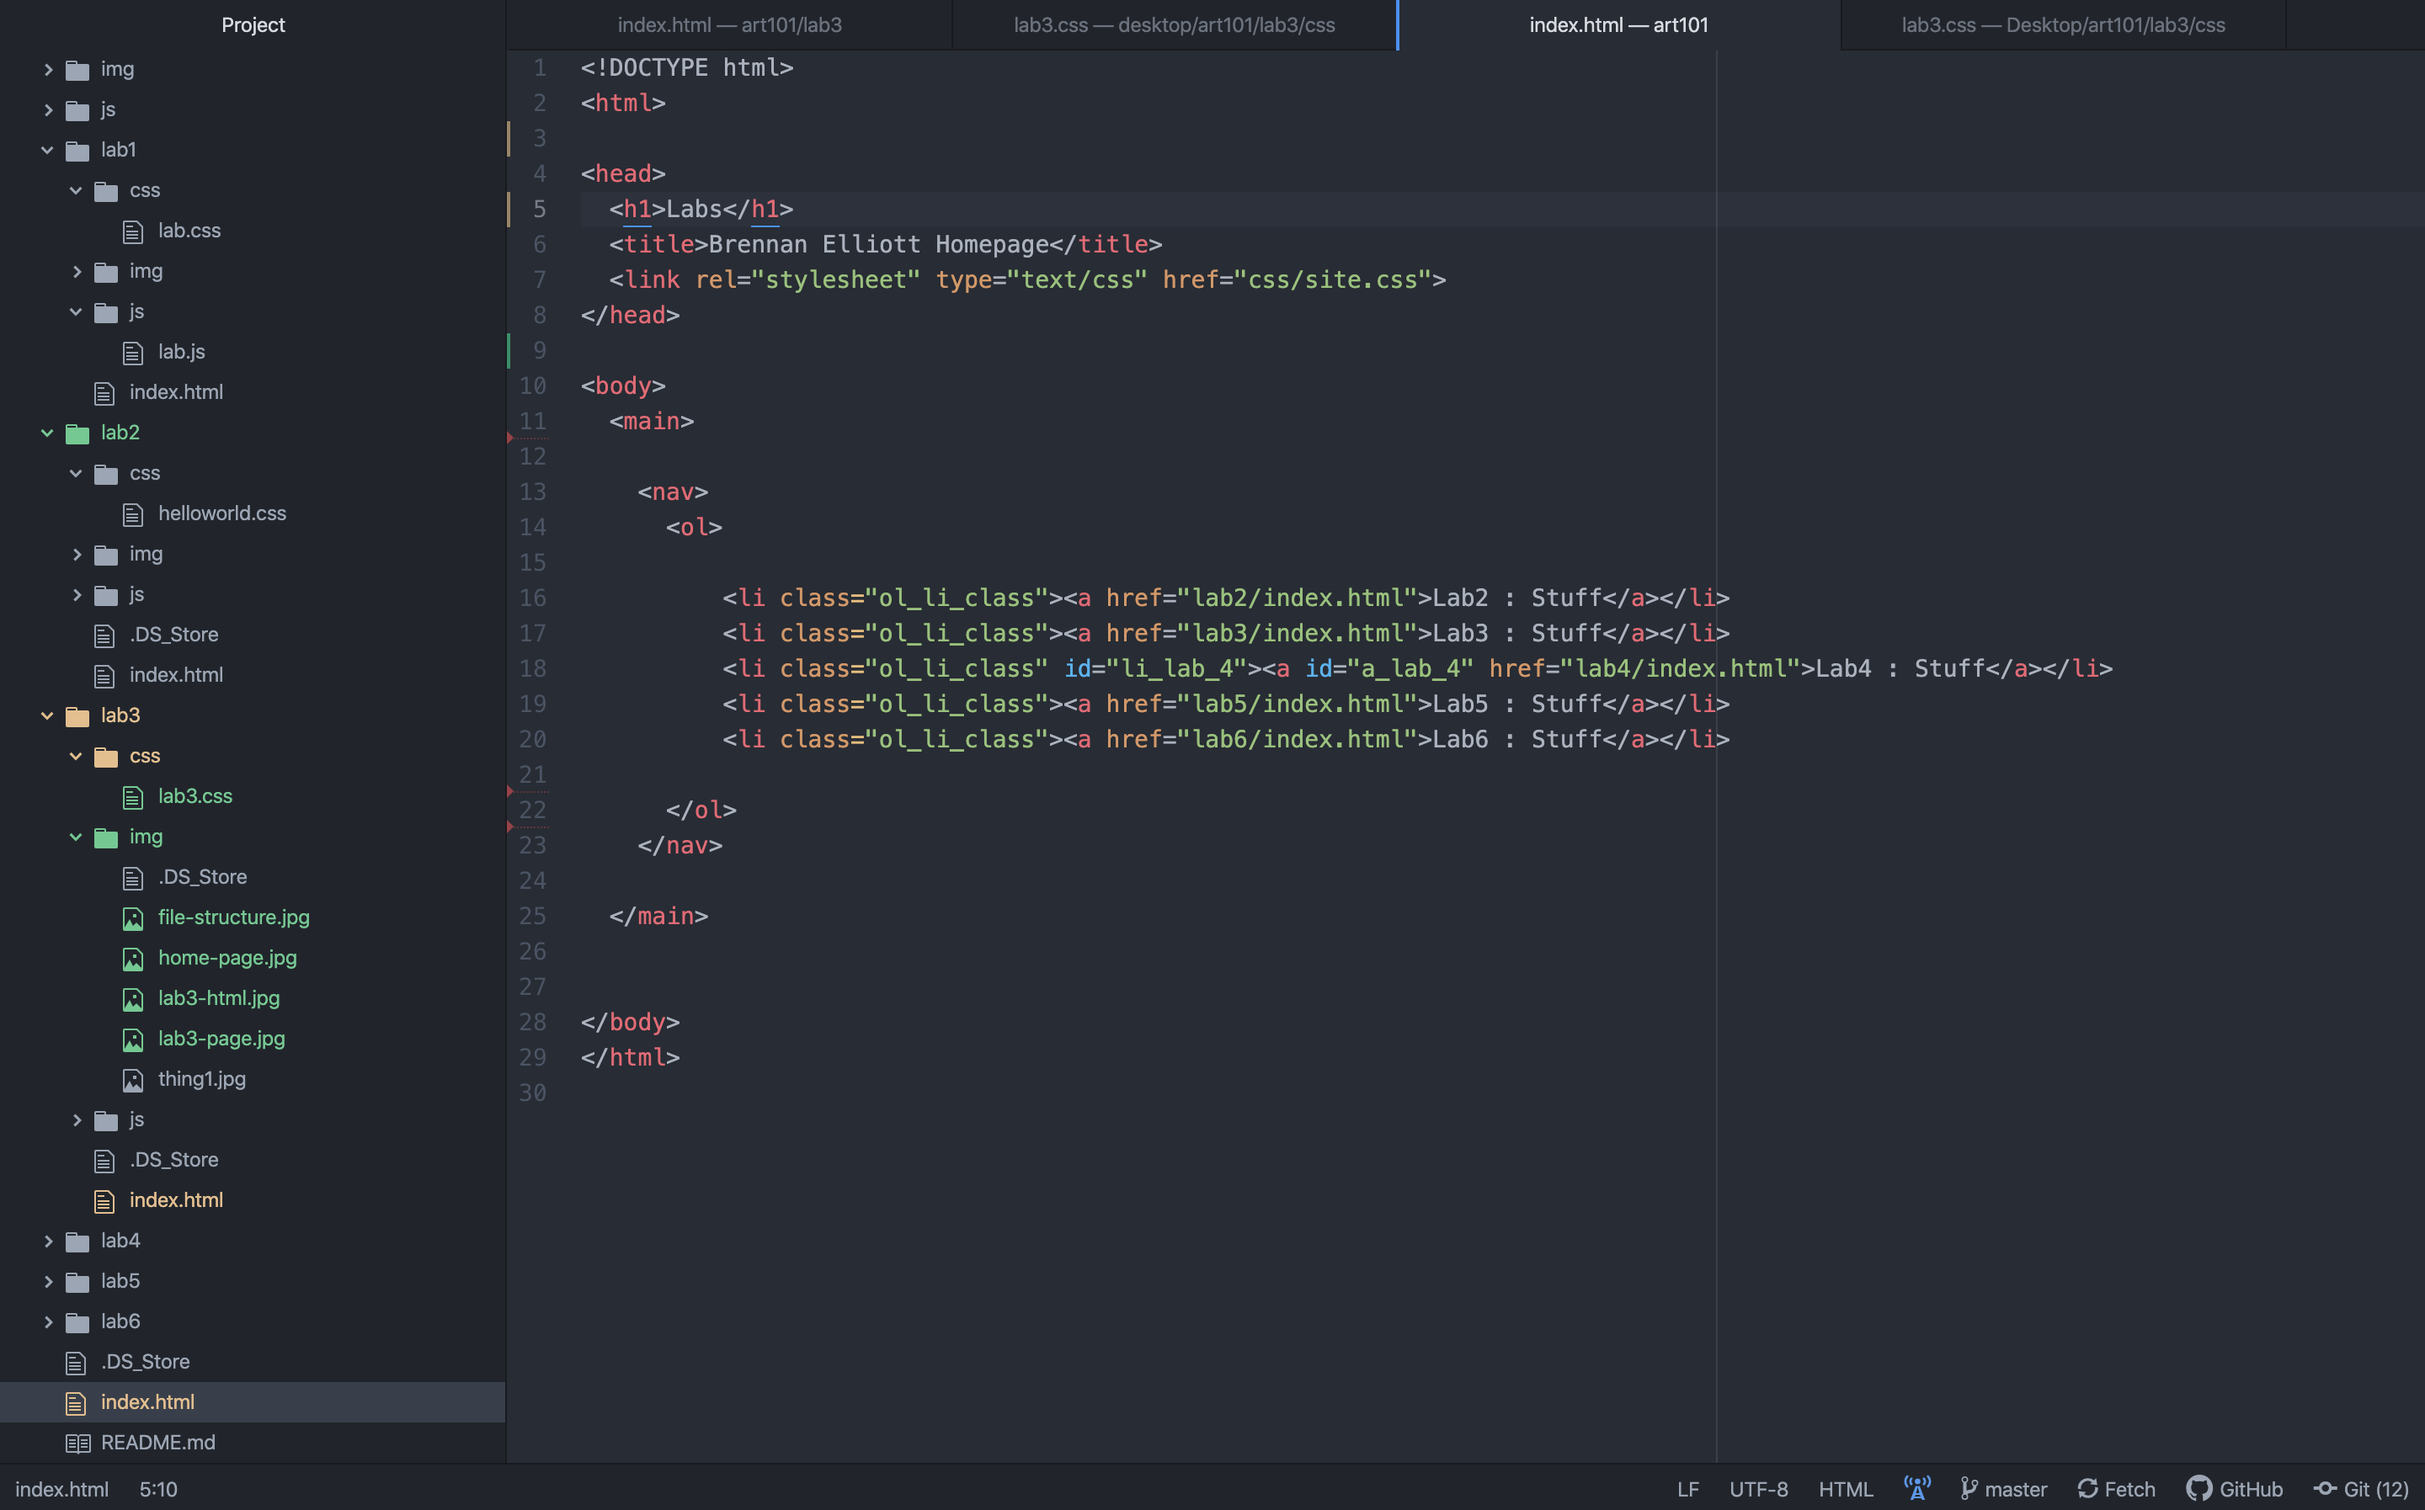
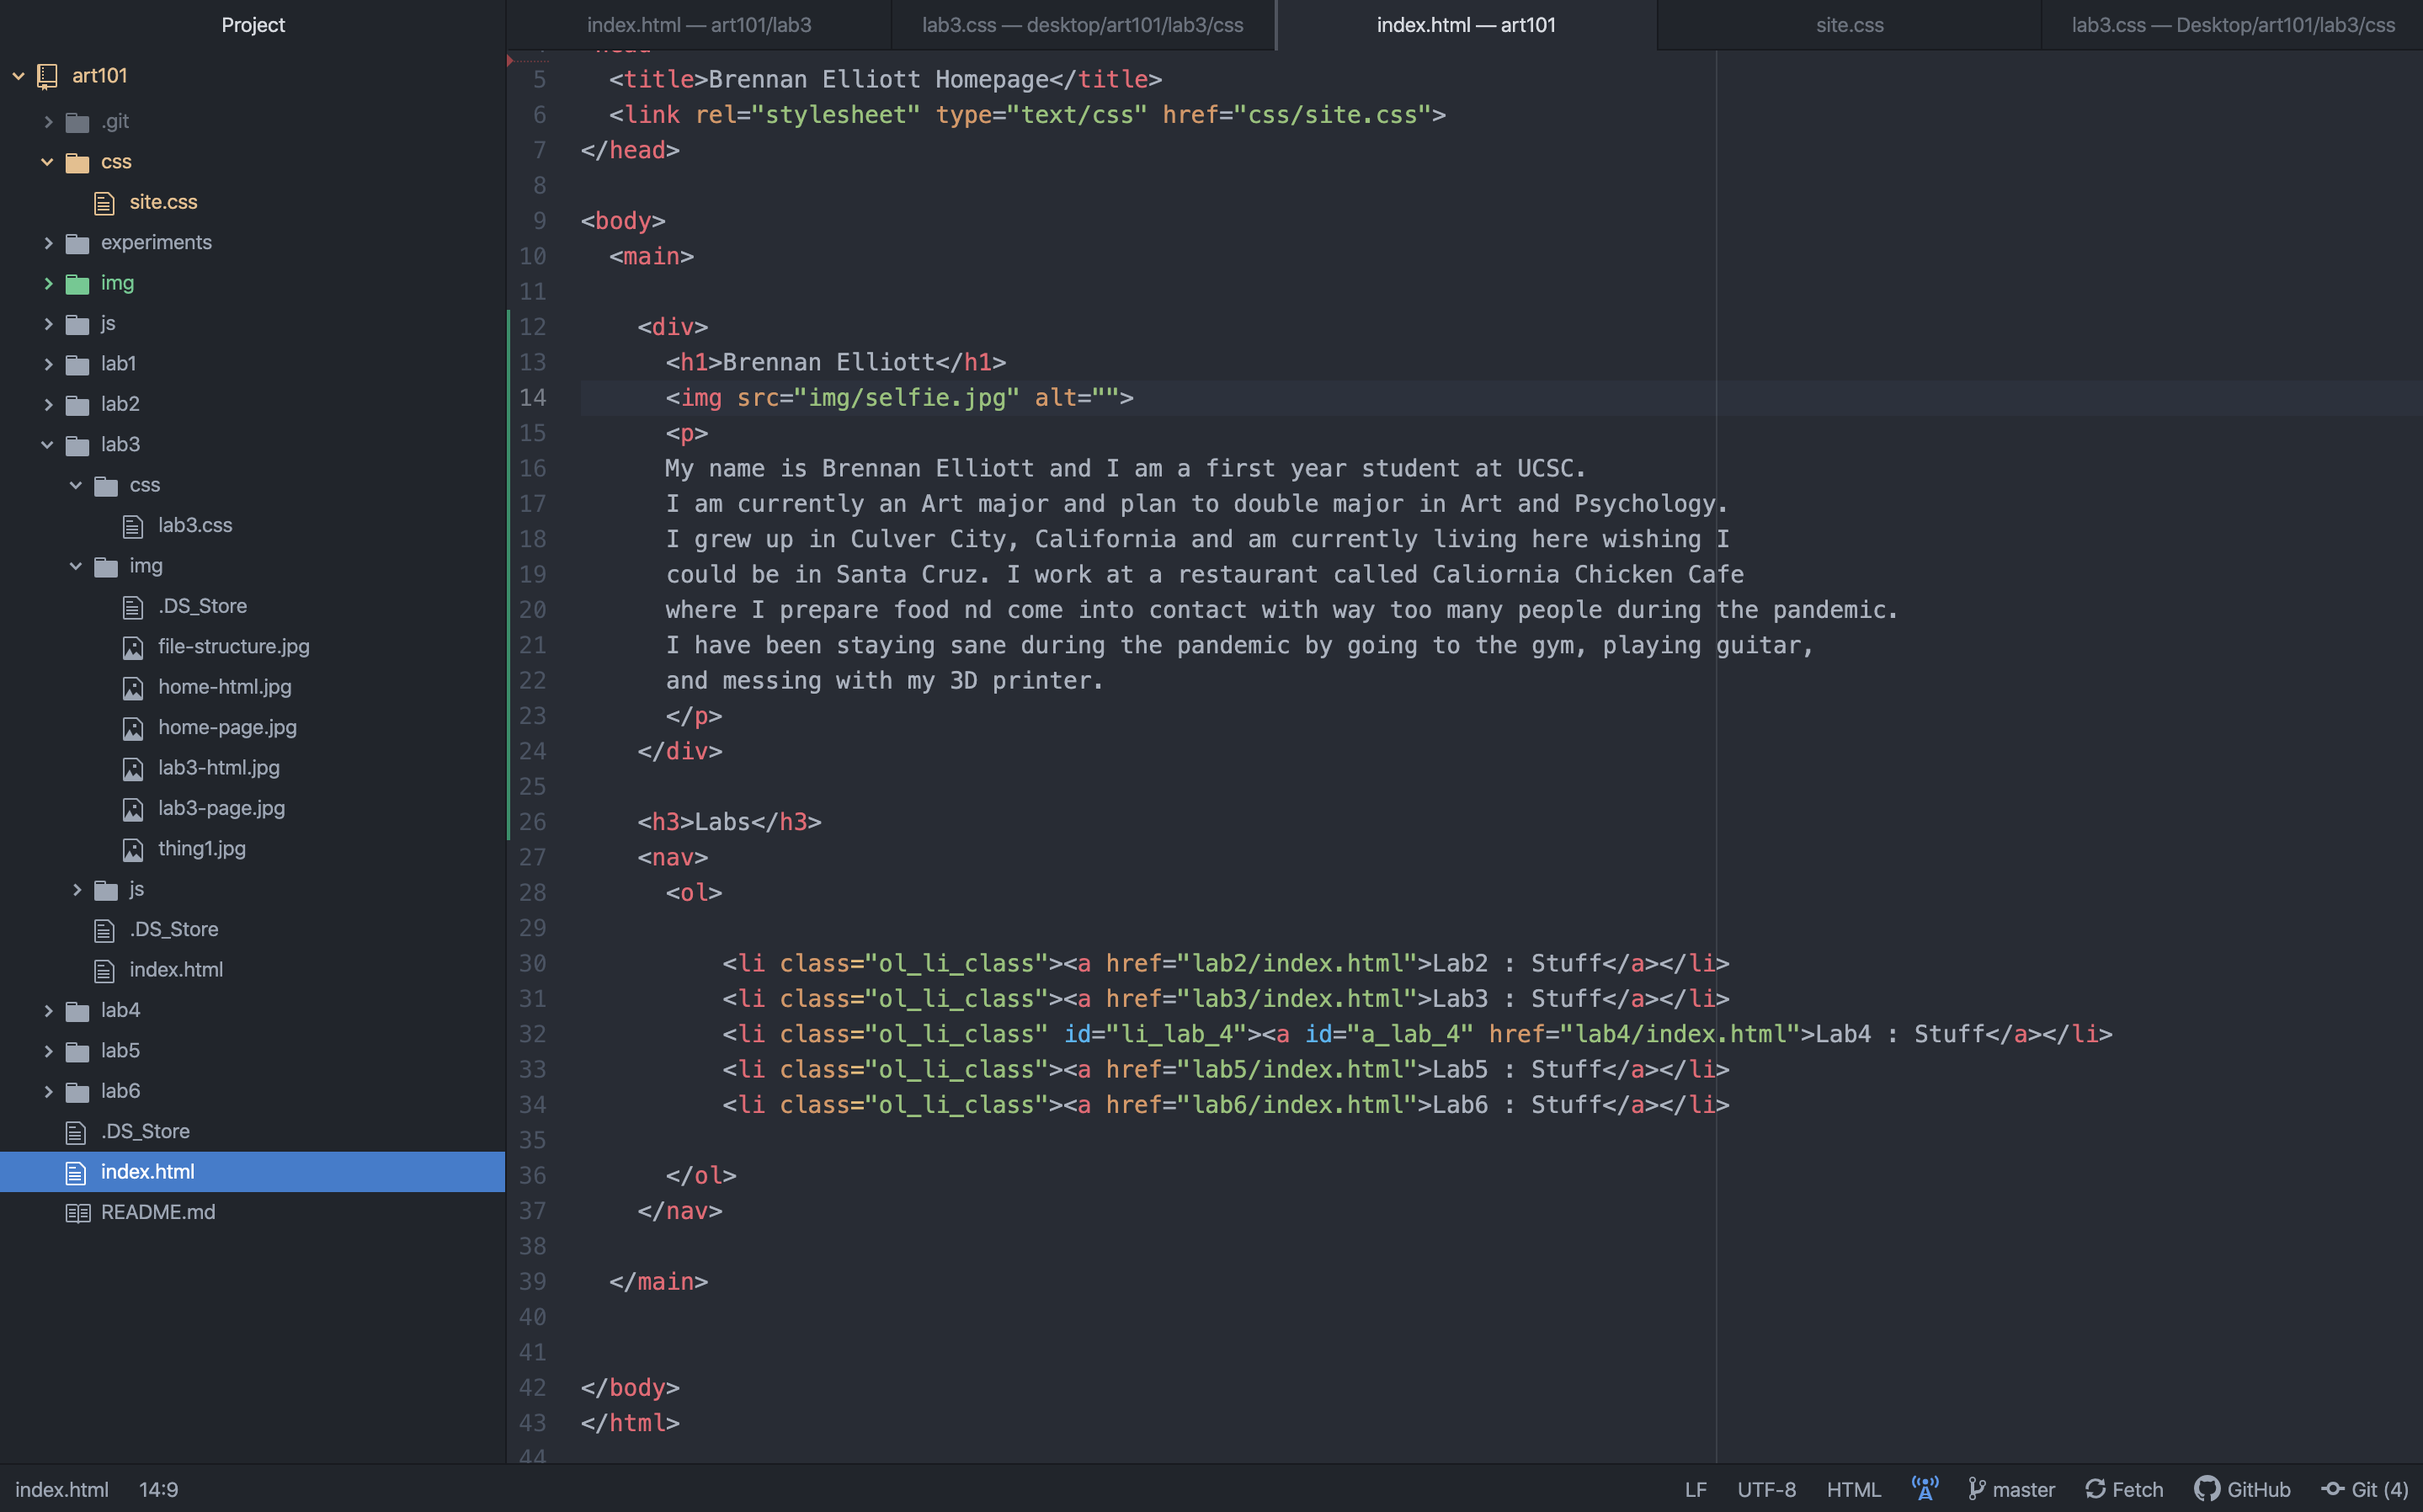
lab 3 pt.2

diff --git a/index.html b/index.html
@@ -2,7 +2,6 @@
 <html>
 
 <head>
-	<h1>Labs</h1>
 	<title>Brennan Elliott Homepage</title>
 	<link rel="stylesheet" type="text/css" href="css/site.css">
 </head>
@@ -10,6 +9,21 @@
 <body>
 	<main>
 
+		<div>
+			<h1>Brennan Elliott</h1>
+			<img src="img/selfie.jpg" alt="">
+			<p>
+			My name is Brennan Elliott and I am a first year student at UCSC.
+			I am currently an Art major and plan to double major in Art and Psychology.
+			I grew up in Culver City, California and am currently living here wishing I
+			could be in Santa Cruz. I work at a restaurant called Caliornia Chicken Cafe
+			where I prepare food nd come into contact with way too many people during the pandemic.
+			I have been staying sane during the pandemic by going to the gym, playing guitar,
+			and messing with my 3D printer.
+			</p>
+		</div>
+
+		<h3>Labs</h3>
 		<nav>
 			<ol>
 

diff --git a/css/site.css b/css/site.css
@@ -4,3 +4,7 @@ a {
 li {
   color:yellow
 }
+img {
+  width:300px;
+  height:auto;
+}
